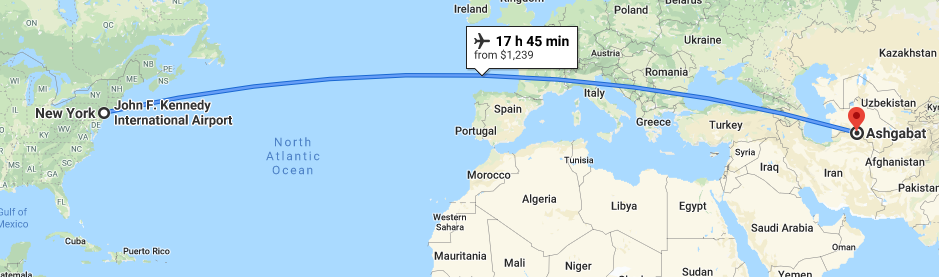
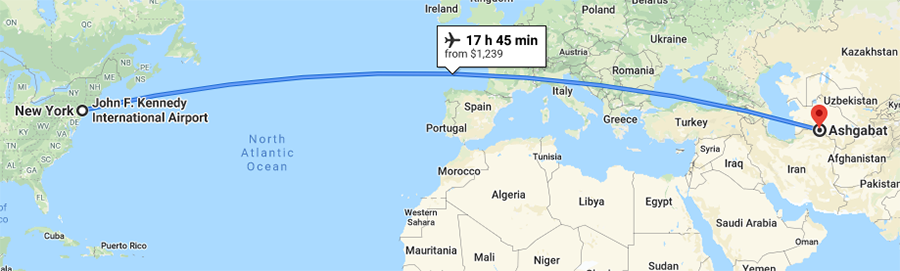
22nd committ

diff --git a/scss/style.min.css b/scss/style.min.css
@@ -1,2 +1,2 @@
-html{font-size:62.5%;padding:0;margin:0;-webkit-box-sizing:border-box;box-sizing:border-box;height:400vh;font-family:'Molle', cursive}body{background-color:#9beba5;height:100%;position:relative}.title{display:-webkit-box;display:-ms-flexbox;display:flex;height:100vh;background-image:-webkit-gradient(linear, left top, right bottom, from(rgba(30,121,58,0.5)), to(rgba(255,255,255,0.5))),url(../../img/mosque.jpg);background-image:linear-gradient(to right bottom, rgba(30,121,58,0.5), rgba(255,255,255,0.5)),url(../../img/mosque.jpg);border-radius:5rem;background-position:top;background-size:cover;-webkit-box-orient:vertical;-webkit-box-direction:normal;-ms-flex-direction:column;flex-direction:column;-webkit-box-align:center;-ms-flex-align:center;align-items:center;text-align:center}@media (min-width: 400px){.title{border-radius:10rem}}.main_title{display:-webkit-box;display:-ms-flexbox;display:flex;height:50rem;color:#fff;-webkit-box-align:center;-ms-flex-align:center;align-items:center;-webkit-box-orient:vertical;-webkit-box-direction:normal;-ms-flex-direction:column;flex-direction:column}.main_title_1{height:7rem;font-size:4rem}@media (min-width: 400px){.main_title_1{height:6rem;font-size:19rem}}@media (min-width: 600px){.main_title_1{height:15rem;font-size:9rem}}@media (min-width: 1100px){.main_title_1{height:9rem;font-size:15rem}}.sub_title{display:-webkit-box;display:-ms-flexbox;display:flex;color:#fff;-webkit-box-align:center;-ms-flex-align:center;align-items:center;font-size:2rem}@media (min-width: 400px){.sub_title{font-size:3rem}}@media (min-width: 600px){.sub_title{font-size:3.5rem}}.space1{height:10rem}.1st_block{background-color:#1e793a;display:-webkit-box;display:-ms-flexbox;display:flex}.sub_title_1{display:-webkit-box;display:-ms-flexbox;display:flex;height:1rem;text-align:center;-webkit-box-pack:center;-ms-flex-pack:center;justify-content:center}.second_title{display:-webkit-box;display:-ms-flexbox;display:flex;height:10rem;font-size:4rem;color:#fff;text-align:center;-webkit-box-pack:center;-ms-flex-pack:center;justify-content:center}@media (min-width: 400px){.second_title{font-size:6rem}}@media (min-width: 600px){.second_title{font-size:6rem}}@media (min-width: 1100px){.second_title{font-size:6rem}}.landmarks{display:-webkit-box;display:-ms-flexbox;display:flex;background-color:#1e793a;border-radius:5rem;height:85vh;background-color:#1e793a;background-position:top;-webkit-box-align:center;-ms-flex-align:center;align-items:center;-webkit-box-pack:space-evenly;-ms-flex-pack:space-evenly;justify-content:space-evenly;-webkit-box-orient:vertical;-webkit-box-direction:normal;-ms-flex-direction:column;flex-direction:column;border-radius:5rem}@media (min-width: 400px){.landmarks{-webkit-box-orient:horizontal;-webkit-box-direction:normal;-ms-flex-direction:row;flex-direction:row;border-radius:10rem}}@media (min-width: 600px){.landmarks{-webkit-box-orient:vertical;-webkit-box-direction:normal;-ms-flex-direction:column;flex-direction:column;height:90vh;border-radius:10rem}}@media (min-width: 1100px){.landmarks{-webkit-box-orient:horizontal;-webkit-box-direction:normal;-ms-flex-direction:row;flex-direction:row;height:85vh}}#landmark_one{background-image:url(../../img/ashgabat-palace.jpg);background-size:cover;height:15rem;width:33rem}@media (min-width: 400px){#landmark_one{height:15rem;width:33rem}}@media (min-width: 600px){#landmark_one{height:20rem;width:70rem}}@media (min-width: 1100px){#landmark_one{height:70rem;width:40rem}}#landmark_two{background-image:url(../../img/independ_monument.jpg);background-size:cover;height:15rem;width:33rem}@media (min-width: 400px){#landmark_two{height:15rem;width:33rem}}@media (min-width: 600px){#landmark_two{height:20rem;width:70rem}}@media (min-width: 1100px){#landmark_two{height:70rem;width:40rem}}#landmark_three{background-image:url(../../img/doortohell.jpg);background-size:cover;height:15rem;width:33rem}@media (min-width: 400px){#landmark_three{height:15rem;width:33rem}}@media (min-width: 600px){#landmark_three{height:20rem;width:70rem}}@media (min-width: 1100px){#landmark_three{height:70rem;width:40rem}}.2nd_block{display:-webkit-box;display:-ms-flexbox;display:flex}.holder2{background-color:#1e793a;-webkit-box-align:center;-ms-flex-align:center;align-items:center;border-radius:5rem;height:85vh;-ms-flex-pack:distribute;justify-content:space-around;display:-webkit-box;display:-ms-flexbox;display:flex;-webkit-box-orient:vertical;-webkit-box-direction:normal;-ms-flex-direction:column;flex-direction:column}@media (min-width: 400px){.holder2{border-radius:10rem;-webkit-box-orient:vertical;-webkit-box-direction:normal;-ms-flex-direction:column;flex-direction:column;-ms-flex-pack:distribute;justify-content:space-around}}@media (min-width: 600px){.holder2{border-radius:10rem;-webkit-box-orient:vertical;-webkit-box-direction:normal;-ms-flex-direction:column;flex-direction:column;-ms-flex-pack:distribute;justify-content:space-around}}@media (min-width: 1100px){.holder2{border-radius:5rem;-webkit-box-orient:horizontal;-webkit-box-direction:normal;-ms-flex-direction:row;flex-direction:row;-ms-flex-pack:distribute;justify-content:space-around}}.directions{display:-webkit-box;display:-ms-flexbox;display:flex;position:relative;-webkit-perspective:150rem;perspective:150rem;height:15rem;width:30rem}@media (min-width: 600px){.directions{height:40rem;width:30rem}}@media (min-width: 1100px){.directions{height:60rem;width:40rem}}.hotels{display:-webkit-box;display:-ms-flexbox;display:flex;-webkit-perspective:150rem;perspective:150rem;position:relative;height:13rem;width:30rem}@media (min-width: 600px){.hotels{height:40rem;width:30rem}}@media (min-width: 1100px){.hotels{height:60rem;width:40rem}}.card-side{display:-webkit-box;display:-ms-flexbox;display:flex;background-color:#9beba5;-webkit-backface-visibility:hidden;backface-visibility:hidden}@media (min-width: 400px){.card-side{height:30rem;width:30rem;font-size:.75rem}}@media (min-width: 600px){.card-side{height:40rem;width:30rem;font-size:1.5rem}}@media (min-width: 1100px){.card-side{height:60rem;width:40rem;font-size:2rem}}.card-side-front-1{display:-webkit-box;display:-ms-flexbox;display:flex;background-color:#9beba5;text-align:center;position:absolute;z-index:1;-webkit-transition:all 1s;transition:all 1s}.captions{color:#fff}.card-side-back-1{display:-webkit-box;display:-ms-flexbox;display:flex;position:absolute;z-index:0;-webkit-transform:rotateY(-180deg);transform:rotateY(-180deg);-webkit-transition:all 1s;transition:all 1s;background-image:url(../../img/ashgabat_map.PNG);background-size:cover}.card-side-front-2{display:-webkit-box;display:-ms-flexbox;display:flex;background-color:#9beba5;position:absolute;z-index:1;-webkit-transition:all 1s;transition:all 1s;text-align:center}.card-side-back-2{display:-webkit-box;display:-ms-flexbox;display:flex;position:absolute;z-index:0;-webkit-transform:rotateY(-180deg);transform:rotateY(-180deg);-webkit-transition:all 1s;transition:all 1s;background-image:url(../../img/ashgabat_hotels.PNG)}.directions:hover .card-side-front-1{-webkit-transform:rotateY(-180deg);transform:rotateY(-180deg)}.directions:hover .card-side-back-1{-webkit-transform:rotateY(0deg);transform:rotateY(0deg)}.hotels:hover .card-side-front-2{-webkit-transform:rotateY(-180deg);transform:rotateY(-180deg)}.hotels:hover .card-side-back-2{-webkit-transform:rotateY(0deg);transform:rotateY(0deg)}
+html{font-size:62.5%;padding:0;margin:0;-webkit-box-sizing:border-box;box-sizing:border-box;height:400vh;font-family:'Molle', cursive}body{background-color:#9beba5;height:100%;position:relative}.title{display:-webkit-box;display:-ms-flexbox;display:flex;height:100vh;background-image:-webkit-gradient(linear, left top, right bottom, from(rgba(30,121,58,0.5)), to(rgba(255,255,255,0.5))),url(../../img/mosque.jpg);background-image:linear-gradient(to right bottom, rgba(30,121,58,0.5), rgba(255,255,255,0.5)),url(../../img/mosque.jpg);border-radius:5rem;background-position:top;background-size:cover;-webkit-box-orient:vertical;-webkit-box-direction:normal;-ms-flex-direction:column;flex-direction:column;-webkit-box-align:center;-ms-flex-align:center;align-items:center;text-align:center}@media (min-width: 400px){.title{border-radius:10rem}}.main_title{display:-webkit-box;display:-ms-flexbox;display:flex;height:50rem;color:#fff;-webkit-box-align:center;-ms-flex-align:center;align-items:center;-webkit-box-orient:vertical;-webkit-box-direction:normal;-ms-flex-direction:column;flex-direction:column}.main_title_1{height:7rem;font-size:4rem}@media (min-width: 400px){.main_title_1{height:6rem;font-size:19rem}}@media (min-width: 600px){.main_title_1{height:15rem;font-size:9rem}}@media (min-width: 1100px){.main_title_1{height:9rem;font-size:15rem}}.sub_title{display:-webkit-box;display:-ms-flexbox;display:flex;color:#fff;-webkit-box-align:center;-ms-flex-align:center;align-items:center;font-size:2rem}@media (min-width: 400px){.sub_title{font-size:3rem}}@media (min-width: 600px){.sub_title{font-size:3.5rem}}.space1{height:10rem}.1st_block{background-color:#1e793a;display:-webkit-box;display:-ms-flexbox;display:flex}.sub_title_1{display:-webkit-box;display:-ms-flexbox;display:flex;height:1rem;text-align:center;-webkit-box-pack:center;-ms-flex-pack:center;justify-content:center}.second_title{display:-webkit-box;display:-ms-flexbox;display:flex;height:10rem;font-size:4rem;color:#fff;text-align:center;-webkit-box-pack:center;-ms-flex-pack:center;justify-content:center}@media (min-width: 400px){.second_title{font-size:6rem}}@media (min-width: 600px){.second_title{font-size:6rem}}@media (min-width: 1100px){.second_title{font-size:6rem}}.landmarks{display:-webkit-box;display:-ms-flexbox;display:flex;background-color:#1e793a;border-radius:5rem;height:85vh;background-color:#1e793a;background-position:top;-webkit-box-align:center;-ms-flex-align:center;align-items:center;-webkit-box-pack:space-evenly;-ms-flex-pack:space-evenly;justify-content:space-evenly;-webkit-box-orient:vertical;-webkit-box-direction:normal;-ms-flex-direction:column;flex-direction:column;border-radius:5rem}@media (min-width: 400px){.landmarks{-webkit-box-orient:horizontal;-webkit-box-direction:normal;-ms-flex-direction:row;flex-direction:row;border-radius:10rem}}@media (min-width: 600px){.landmarks{-webkit-box-orient:vertical;-webkit-box-direction:normal;-ms-flex-direction:column;flex-direction:column;height:90vh;border-radius:10rem}}@media (min-width: 1100px){.landmarks{-webkit-box-orient:horizontal;-webkit-box-direction:normal;-ms-flex-direction:row;flex-direction:row;height:85vh}}#landmark_one{background-image:url(../../img/ashgabat-palace.jpg);background-size:cover;height:15rem;width:33rem}@media (min-width: 400px){#landmark_one{height:15rem;width:33rem}}@media (min-width: 600px){#landmark_one{height:20rem;width:70rem}}@media (min-width: 1100px){#landmark_one{height:70rem;width:40rem}}#landmark_two{background-image:url(../../img/independ_monument.jpg);background-size:cover;height:15rem;width:33rem}@media (min-width: 400px){#landmark_two{height:15rem;width:33rem}}@media (min-width: 600px){#landmark_two{height:20rem;width:70rem}}@media (min-width: 1100px){#landmark_two{height:70rem;width:40rem}}#landmark_three{background-image:url(../../img/doortohell.jpg);background-size:cover;height:15rem;width:33rem}@media (min-width: 400px){#landmark_three{height:15rem;width:33rem}}@media (min-width: 600px){#landmark_three{height:20rem;width:70rem}}@media (min-width: 1100px){#landmark_three{height:70rem;width:40rem}}.2nd_block{display:-webkit-box;display:-ms-flexbox;display:flex}.holder2{background-color:#1e793a;-webkit-box-align:center;-ms-flex-align:center;align-items:center;border-radius:5rem;height:85vh;-ms-flex-pack:distribute;justify-content:space-around;display:-webkit-box;display:-ms-flexbox;display:flex;-webkit-box-orient:vertical;-webkit-box-direction:normal;-ms-flex-direction:column;flex-direction:column}@media (min-width: 400px){.holder2{border-radius:10rem;-webkit-box-orient:vertical;-webkit-box-direction:normal;-ms-flex-direction:column;flex-direction:column;-ms-flex-pack:distribute;justify-content:space-around}}@media (min-width: 600px){.holder2{border-radius:10rem;-webkit-box-orient:vertical;-webkit-box-direction:normal;-ms-flex-direction:column;flex-direction:column;-ms-flex-pack:distribute;justify-content:space-around}}@media (min-width: 1100px){.holder2{border-radius:5rem;-webkit-box-orient:horizontal;-webkit-box-direction:normal;-ms-flex-direction:row;flex-direction:row;-ms-flex-pack:distribute;justify-content:space-around}}.directions{display:-webkit-box;display:-ms-flexbox;display:flex;position:relative;-webkit-perspective:150rem;perspective:150rem;height:20rem;width:30rem}@media (min-width: 600px){.directions{height:33rem;width:47rem}}@media (min-width: 1100px){.directions{height:60rem;width:40rem}}.hotels{display:-webkit-box;display:-ms-flexbox;display:flex;-webkit-perspective:150rem;perspective:150rem;position:relative;height:20rem;width:30rem}@media (min-width: 600px){.hotels{height:33rem;width:47rem}}@media (min-width: 1100px){.hotels{height:60rem;width:40rem}}.card-side{display:-webkit-box;display:-ms-flexbox;display:flex;background-color:#9beba5;-webkit-backface-visibility:hidden;backface-visibility:hidden;height:20rem;width:30rem;font-size:1rem}@media (min-width: 400px){.card-side{height:20rem;width:30rem;font-size:1rem}}@media (min-width: 600px){.card-side{height:33rem;width:47rem;font-size:1.7rem}}@media (min-width: 1100px){.card-side{height:60rem;width:40rem;font-size:2rem}}.card-side-front-1{display:-webkit-box;display:-ms-flexbox;display:flex;background-color:#9beba5;text-align:center;position:absolute;z-index:1;-webkit-transition:all 1s;transition:all 1s}.captions{color:#fff}.card-side-back-1{display:-webkit-box;display:-ms-flexbox;display:flex;position:absolute;z-index:0;-webkit-transform:rotateY(-180deg);transform:rotateY(-180deg);-webkit-transition:all 1s;transition:all 1s;background-image:url(../../img/ashgabat_flights.PNG);background-size:cover}.card-side-front-2{display:-webkit-box;display:-ms-flexbox;display:flex;background-color:#9beba5;position:absolute;z-index:1;-webkit-transition:all 1s;transition:all 1s;text-align:center}.card-side-back-2{display:-webkit-box;display:-ms-flexbox;display:flex;position:absolute;z-index:0;-webkit-transform:rotateY(-180deg);transform:rotateY(-180deg);-webkit-transition:all 1s;transition:all 1s;background-image:url(../../img/ashgabat_hotels.PNG)}.directions:hover .card-side-front-1{-webkit-transform:rotateY(-180deg);transform:rotateY(-180deg)}.directions:hover .card-side-back-1{-webkit-transform:rotateY(0deg);transform:rotateY(0deg)}.hotels:hover .card-side-front-2{-webkit-transform:rotateY(-180deg);transform:rotateY(-180deg)}.hotels:hover .card-side-back-2{-webkit-transform:rotateY(0deg);transform:rotateY(0deg)}
 /*# sourceMappingURL=style.min.css.map */

diff --git a/scss/style.scss b/scss/style.scss
@@ -243,11 +243,11 @@ body{
     display: flex;
     position: relative;
     perspective: 150rem;
-    height: 15rem;
+    height: 20rem;
     width: 30rem;
     @include tablet{
-        height: 40rem;
-        width: 30rem;
+        height: 33rem;
+        width: 47rem;
     }
     @include desktop{
         height: 60rem;
@@ -259,11 +259,11 @@ body{
     display: flex;
     perspective: 150rem;
     position: relative;
-    height: 13rem;
+    height: 20rem;
     width: 30rem;
     @include tablet{
-        height: 40rem;
-        width: 30rem;
+        height: 33rem;
+        width: 47rem;
     }
     @include desktop{
         height: 60rem;
@@ -275,15 +275,18 @@ body{
     display: flex;
     background-color: $secondary-light;
     backface-visibility: hidden;
+    height: 20rem;
+    width: 30rem;
+    font-size: 1rem;
     @include phone{
-        height: 30rem;
+        height: 20rem;
         width: 30rem;
-        font-size: .75rem;
+        font-size: 1rem;
     }
     @include tablet{
-        height: 40rem;
-        width: 30rem;
-        font-size: 1.5rem;
+        height: 33rem;
+        width: 47rem;
+        font-size: 1.7rem;
     }
     @include desktop{
         height: 60rem;
@@ -303,7 +306,6 @@ body{
 
 .captions{
     color: $primary;
-    
 }
 
 .card-side-back-1{
@@ -312,7 +314,7 @@ body{
     z-index: 0;
     transform: rotateY(-180deg);
     transition: all 1s;
-    background-image: url(../../img/ashgabat_map.PNG);
+    background-image: url(../../img/ashgabat_flights.PNG);
     background-size: cover;
 
 }

diff --git a/dist/css/style.css b/dist/css/style.css
@@ -370,14 +370,14 @@ body {
   position: relative;
   -webkit-perspective: 150rem;
           perspective: 150rem;
-  height: 15rem;
+  height: 20rem;
   width: 30rem;
 }
 
 @media (min-width: 600px) {
   .directions {
-    height: 40rem;
-    width: 30rem;
+    height: 33rem;
+    width: 47rem;
   }
 }
 
@@ -395,14 +395,14 @@ body {
   -webkit-perspective: 150rem;
           perspective: 150rem;
   position: relative;
-  height: 13rem;
+  height: 20rem;
   width: 30rem;
 }
 
 @media (min-width: 600px) {
   .hotels {
-    height: 40rem;
-    width: 30rem;
+    height: 33rem;
+    width: 47rem;
   }
 }
 
@@ -420,21 +420,24 @@ body {
   background-color: #9beba5;
   -webkit-backface-visibility: hidden;
           backface-visibility: hidden;
+  height: 20rem;
+  width: 30rem;
+  font-size: 1rem;
 }
 
 @media (min-width: 400px) {
   .card-side {
-    height: 30rem;
+    height: 20rem;
     width: 30rem;
-    font-size: .75rem;
+    font-size: 1rem;
   }
 }
 
 @media (min-width: 600px) {
   .card-side {
-    height: 40rem;
-    width: 30rem;
-    font-size: 1.5rem;
+    height: 33rem;
+    width: 47rem;
+    font-size: 1.7rem;
   }
 }
 
@@ -472,7 +475,7 @@ body {
           transform: rotateY(-180deg);
   -webkit-transition: all 1s;
   transition: all 1s;
-  background-image: url(../../img/ashgabat_map.PNG);
+  background-image: url(../../img/ashgabat_flights.PNG);
   background-size: cover;
 }
 
